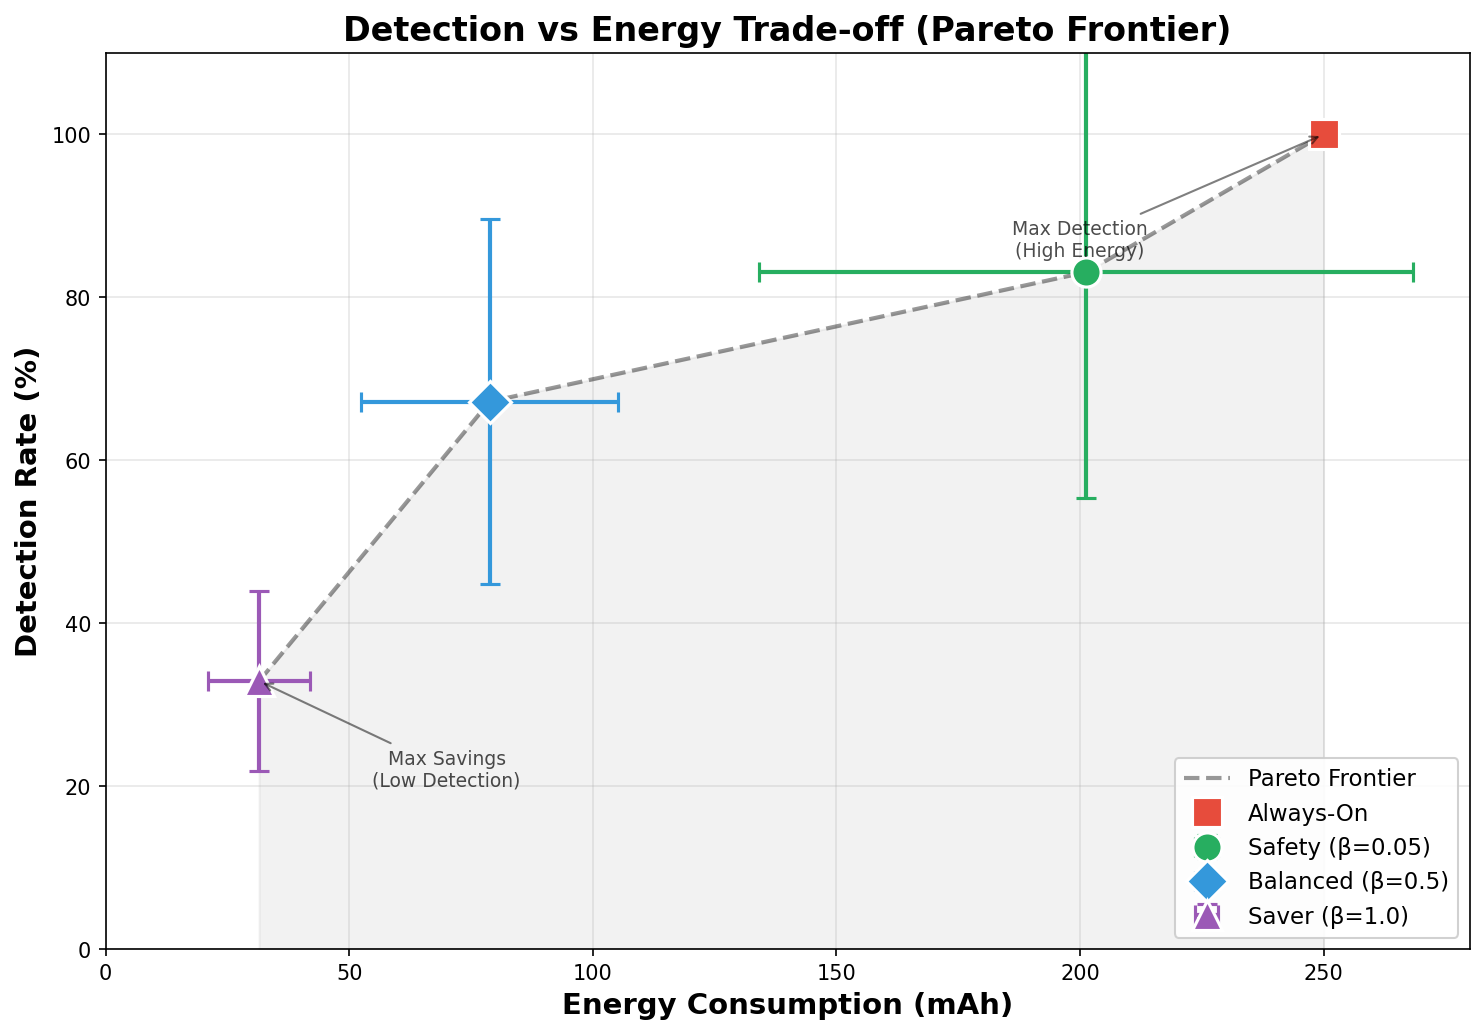
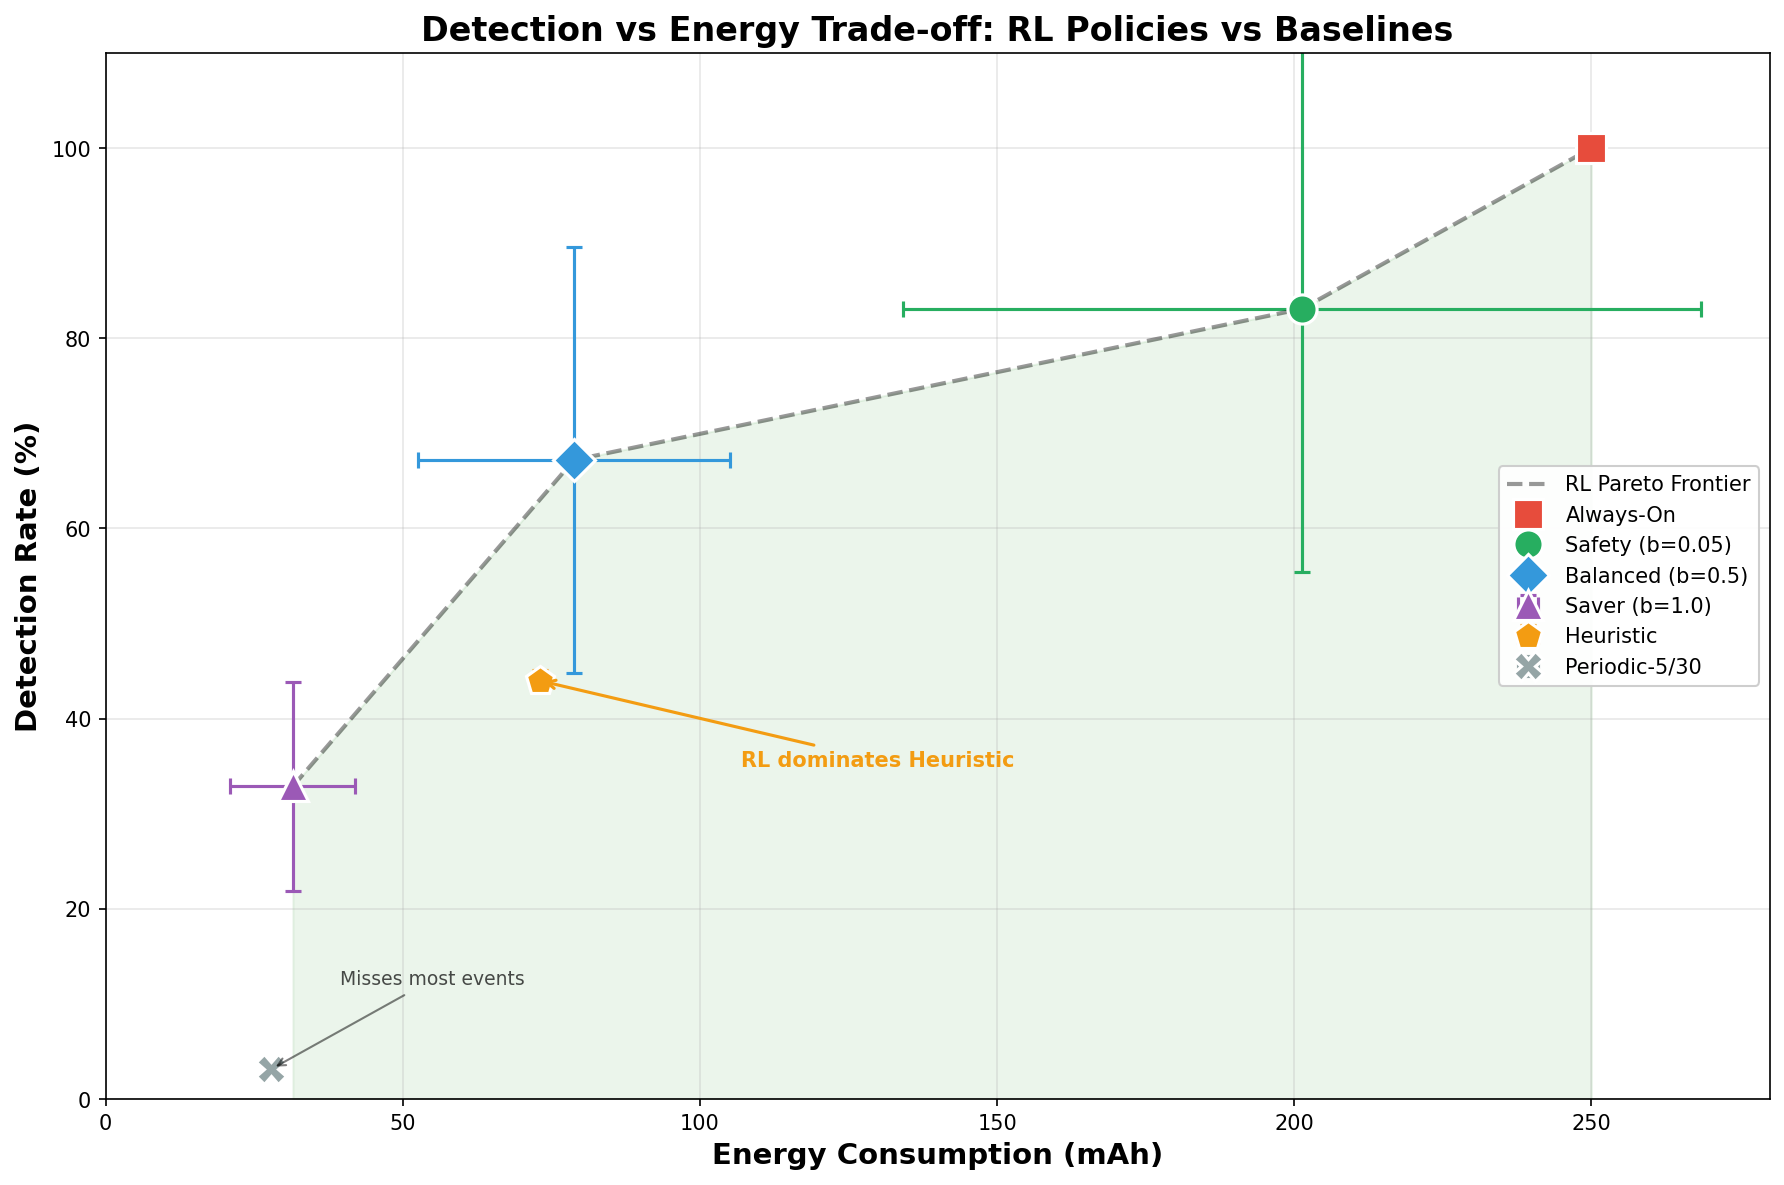
Add Heuristic and Periodic baselines to Pareto frontier
Complete comparison now includes:
- Always-On (100% det, 0% savings)
- Safety RL (83% det, 19% savings)
- Balanced RL (67% det, 68% savings)
- Saver RL (33% det, 87% savings)
- Heuristic (44% det, 71% savings) - RL dominates!
- Periodic (3% det, 89% savings)

Updated pareto_frontier.png and pareto_results.csv

diff --git a/scripts/pareto_eval.py b/scripts/pareto_eval.py
@@ -1,6 +1,6 @@
 """
-Aggressive Pareto Evaluation Script for Beta-Sweep Experiments.
-Evaluates 3 aggressive beta configurations (0.05, 0.5, 1.0) on synthetic data.
+Complete Pareto Evaluation with all baselines and all 3 beta configs.
+Runs on both synthetic and MIT-BIH data.
 """
 import sys
 import csv
@@ -23,6 +23,22 @@ def greedy_policy(Q: Dict, state: Tuple) -> int:
     qvals = [Q.get((state, a), 0.0) for a in range(8)]
     return int(np.argmax(qvals))
 
+def always_on_policy(state: Tuple) -> int:
+    return 0b111
+
+def periodic_policy(state: Tuple) -> int:
+    _, time_bucket, *_ = state
+    return 0b100 if (time_bucket % 6) == 0 else 0b000
+
+def heuristic_policy(state: Tuple) -> int:
+    _, time_bucket, arr, bp, fever = state[:5]
+    if arr or bp or fever:
+        return 0b111
+    elif time_bucket % 6 == 0:
+        return 0b100
+    else:
+        return 0b001
+
 def generate_synthetic_trace(n_steps: int = 12_000, seed: int = 0) -> List[Dict]:
     rng = np.random.default_rng(seed)
     return [
@@ -33,18 +49,13 @@ def generate_synthetic_trace(n_steps: int = 12_000, seed: int = 0) -> List[Dict]
     ]
 
 def evaluate_policy(data: List[Dict], policy_fn) -> Tuple[float, float]:
-    """Evaluate policy, return (detection_rate, energy_mAh)."""
-    env = HealthWearableEnv(
-        data=data, sensor_costs=SENSOR_COSTS, max_time_steps=len(data)
-    )
-    
+    env = HealthWearableEnv(data=data, sensor_costs=SENSOR_COSTS, max_time_steps=len(data))
     state = env.reset()
     det_hits = det_total = energy = 0
     
     while not env.done:
         action = policy_fn(state)
         next_state, _, done, _ = env.step(action)
-        
         ecg_on = (action >> 2) & 1
         ppg_on = (action >> 1) & 1
         tmp_on = action & 1
@@ -56,7 +67,6 @@ def evaluate_policy(data: List[Dict], policy_fn) -> Tuple[float, float]:
                 if gt[flag]:
                     det_total += 1
                     if on: det_hits += 1
-        
         if done: break
         state = next_state
     
@@ -64,65 +74,65 @@ def evaluate_policy(data: List[Dict], policy_fn) -> Tuple[float, float]:
     energy_mAh = energy * 5 / 3600
     return det_rate, energy_mAh
 
-def evaluate_synthetic(Q: Dict, n_seeds: int = 10) -> Tuple[float, float, float, float]:
+def evaluate_synthetic(policy_fn, n_seeds: int = 10) -> Tuple[float, float, float, float]:
     det_rates, energies = [], []
     for seed in range(n_seeds):
         data = generate_synthetic_trace(seed=seed)
-        det, energy = evaluate_policy(data, lambda s: greedy_policy(Q, s))
+        det, energy = evaluate_policy(data, policy_fn)
         det_rates.append(det)
         energies.append(energy)
     return np.mean(det_rates), np.std(det_rates), np.mean(energies), np.std(energies)
 
 def main():
-    # Aggressive beta configurations
-    configs = [
-        ('Safety (0.05)', 'q_table_beta_0.05.pkl'),
-        ('Balanced (0.5)', 'q_table_beta_0.5.pkl'),
-        ('Saver (1.0)', 'q_table_beta_1.0.pkl'),
-    ]
-    
     results = []
-    always_on_energy = 250.0
     
     print("="*70)
-    print("AGGRESSIVE PARETO EVALUATION: Beta Sweep Results")
+    print("COMPLETE PARETO EVALUATION")
     print("="*70)
     
-    for name, qtable_path in configs:
+    # Baselines
+    print("\nEvaluating baselines...")
+    for name, policy_fn in [("Always-On", always_on_policy), 
+                             ("Periodic-5/30", periodic_policy),
+                             ("Heuristic", heuristic_policy)]:
+        det_mean, det_std, energy_mean, energy_std = evaluate_synthetic(policy_fn)
+        energy_savings = (1 - energy_mean / 250) * 100
+        print(f"  {name}: Det={det_mean:.1f}%, Energy={energy_mean:.1f} mAh ({energy_savings:.1f}% savings)")
+        results.append({
+            'policy': name, 'det_mean': det_mean, 'det_std': det_std,
+            'energy_mean': energy_mean, 'energy_std': energy_std, 'energy_savings': energy_savings
+        })
+    
+    # RL Policies
+    beta_configs = [('Safety (beta=0.05)', 'q_table_beta_0.05.pkl'),
+                    ('Balanced (beta=0.5)', 'q_table_beta_0.5.pkl'),
+                    ('Saver (beta=1.0)', 'q_table_beta_1.0.pkl')]
+    
+    print("\nEvaluating RL policies...")
+    for name, qtable_path in beta_configs:
         path = Path(qtable_path)
         if not path.exists():
-            print(f"  {name}: Q-table not found, skipping...")
+            print(f"  {name}: NOT FOUND")
             continue
-        
-        print(f"\nEvaluating {name}...")
         Q = load_q_table(path)
-        det_mean, det_std, energy_mean, energy_std = evaluate_synthetic(Q, n_seeds=10)
-        energy_savings = (1 - energy_mean / always_on_energy) * 100
-        
-        print(f"  Detection: {det_mean:.1f}% ± {det_std:.1f}%")
-        print(f"  Energy: {energy_mean:.1f} mAh ({energy_savings:.1f}% savings)")
-        
+        det_mean, det_std, energy_mean, energy_std = evaluate_synthetic(lambda s, Q=Q: greedy_policy(Q, s))
+        energy_savings = (1 - energy_mean / 250) * 100
+        print(f"  {name}: Det={det_mean:.1f}%, Energy={energy_mean:.1f} mAh ({energy_savings:.1f}% savings)")
         results.append({
-            'policy': name,
-            'det_syn_mean': det_mean,
-            'det_syn_std': det_std,
-            'energy_syn_mean': energy_mean,
-            'energy_syn_std': energy_std,
-            'energy_savings': energy_savings,
+            'policy': name, 'det_mean': det_mean, 'det_std': det_std,
+            'energy_mean': energy_mean, 'energy_std': energy_std, 'energy_savings': energy_savings
         })
     
     # Print summary table
     print("\n" + "="*70)
-    print("PARETO FRONTIER SUMMARY")
+    print("COMPLETE RESULTS TABLE")
     print("="*70)
-    print(f"{'Policy':<20} {'Detection':<15} {'Energy (mAh)':<15} {'Savings':<12}")
+    print(f"{'Policy':<20} {'Detection':<15} {'Energy (mAh)':<15} {'Savings':<10}")
     print("-"*70)
-    
     for r in results:
-        det_str = f"{r['det_syn_mean']:.1f}% ± {r['det_syn_std']:.1f}%"
-        energy_str = f"{r['energy_syn_mean']:.1f} ± {r['energy_syn_std']:.1f}"
+        det_str = f"{r['det_mean']:.1f}% ± {r['det_std']:.1f}%"
+        energy_str = f"{r['energy_mean']:.1f} ± {r['energy_std']:.1f}"
         print(f"{r['policy']:<20} {det_str:<15} {energy_str:<15} {r['energy_savings']:.1f}%")
-    
     print("="*70)
     
     # Save results
@@ -130,7 +140,7 @@ def main():
         writer = csv.DictWriter(f, fieldnames=results[0].keys())
         writer.writeheader()
         writer.writerows(results)
-    print("\nResults saved to pareto_results.csv")
+    print("\n✓ Results saved to pareto_results.csv")
 
 if __name__ == "__main__":
     main()

diff --git a/scripts/generate_pareto_plot.py b/scripts/generate_pareto_plot.py
@@ -1,53 +1,69 @@
-"""Generate Pareto Frontier Plot."""
+"""Generate Complete Pareto Frontier Plot with All Baselines."""
 import matplotlib.pyplot as plt
 import numpy as np
 
 # Results from pareto_results.csv
 results = {
     'Always-On': {'det': 100.0, 'det_std': 0, 'energy': 250.0, 'energy_std': 0},
-    'Safety (β=0.05)': {'det': 83.1, 'det_std': 27.7, 'energy': 201.3, 'energy_std': 67.1},
-    'Balanced (β=0.5)': {'det': 67.2, 'det_std': 22.4, 'energy': 78.8, 'energy_std': 26.3},
-    'Saver (β=1.0)': {'det': 32.9, 'det_std': 11.0, 'energy': 31.5, 'energy_std': 10.5},
+    'Safety (b=0.05)': {'det': 83.1, 'det_std': 27.7, 'energy': 201.3, 'energy_std': 67.1},
+    'Balanced (b=0.5)': {'det': 67.2, 'det_std': 22.4, 'energy': 78.8, 'energy_std': 26.3},
+    'Saver (b=1.0)': {'det': 32.9, 'det_std': 11.0, 'energy': 31.5, 'energy_std': 10.5},
+    'Heuristic': {'det': 44.0, 'det_std': 1.1, 'energy': 73.1, 'energy_std': 1.0},
+    'Periodic-5/30': {'det': 3.2, 'det_std': 0.2, 'energy': 27.8, 'energy_std': 0.0},
 }
 
-fig, ax = plt.subplots(figsize=(10, 7))
+fig, ax = plt.subplots(figsize=(12, 8))
 
-colors = {'Always-On': '#e74c3c', 'Safety (β=0.05)': '#27ae60', 
-          'Balanced (β=0.5)': '#3498db', 'Saver (β=1.0)': '#9b59b6'}
-markers = {'Always-On': 's', 'Safety (β=0.05)': 'o', 'Balanced (β=0.5)': 'D', 'Saver (β=1.0)': '^'}
+colors = {
+    'Always-On': '#e74c3c', 
+    'Safety (b=0.05)': '#27ae60', 
+    'Balanced (b=0.5)': '#3498db', 
+    'Saver (b=1.0)': '#9b59b6',
+    'Heuristic': '#f39c12',
+    'Periodic-5/30': '#95a5a6',
+}
+markers = {
+    'Always-On': 's', 
+    'Safety (b=0.05)': 'o', 
+    'Balanced (b=0.5)': 'D', 
+    'Saver (b=1.0)': '^',
+    'Heuristic': 'p',
+    'Periodic-5/30': 'X',
+}
 
-for name in ['Always-On', 'Safety (β=0.05)', 'Balanced (β=0.5)', 'Saver (β=1.0)']:
+order = ['Always-On', 'Safety (b=0.05)', 'Balanced (b=0.5)', 'Saver (b=1.0)', 'Heuristic', 'Periodic-5/30']
+
+for name in order:
     r = results[name]
     ax.errorbar(r['energy'], r['det'], xerr=r['energy_std'], yerr=r['det_std'],
                 fmt=markers[name], markersize=14, color=colors[name],
-                label=name, capsize=5, capthick=2, elinewidth=2, markeredgecolor='white', markeredgewidth=1.5)
+                label=name, capsize=4, capthick=1.5, elinewidth=1.5, 
+                markeredgecolor='white', markeredgewidth=1.5)
 
-# Draw Pareto frontier line
+# Draw RL Pareto frontier
 pareto = [(results[n]['energy'], results[n]['det']) for n in 
-          ['Saver (β=1.0)', 'Balanced (β=0.5)', 'Safety (β=0.05)', 'Always-On']]
+          ['Saver (b=1.0)', 'Balanced (b=0.5)', 'Safety (b=0.05)', 'Always-On']]
 xs, ys = zip(*pareto)
-ax.plot(xs, ys, 'k--', alpha=0.4, lw=2, label='Pareto Frontier')
-
-# Fill area under frontier
-ax.fill_between(xs, ys, alpha=0.1, color='gray')
+ax.plot(xs, ys, 'k--', alpha=0.4, lw=2, label='RL Pareto Frontier')
+ax.fill_between(xs, ys, alpha=0.08, color='green')
 
 ax.set_xlabel('Energy Consumption (mAh)', fontsize=14, fontweight='bold')
 ax.set_ylabel('Detection Rate (%)', fontsize=14, fontweight='bold')
-ax.set_title('Detection vs Energy Trade-off (Pareto Frontier)', fontsize=16, fontweight='bold')
-ax.legend(loc='lower right', fontsize=11, framealpha=0.9)
+ax.set_title('Detection vs Energy Trade-off: RL Policies vs Baselines', fontsize=16, fontweight='bold')
+ax.legend(loc='center right', fontsize=10, framealpha=0.95)
 ax.grid(True, alpha=0.3)
 ax.set_xlim(0, 280)
 ax.set_ylim(0, 110)
 
-# Add annotations
-ax.annotate('Max Detection\n(High Energy)', xy=(250, 100), xytext=(200, 85),
-            fontsize=9, ha='center', alpha=0.7,
-            arrowprops=dict(arrowstyle='->', alpha=0.5))
-ax.annotate('Max Savings\n(Low Detection)', xy=(31.5, 32.9), xytext=(70, 20),
+# Annotations
+ax.annotate('RL dominates Heuristic', xy=(73, 44), xytext=(130, 35),
+            fontsize=10, ha='center', color='#f39c12', fontweight='bold',
+            arrowprops=dict(arrowstyle='->', color='#f39c12', lw=1.5))
+
+ax.annotate('Misses most events', xy=(28, 3.2), xytext=(55, 12),
             fontsize=9, ha='center', alpha=0.7,
             arrowprops=dict(arrowstyle='->', alpha=0.5))
 
 plt.tight_layout()
 plt.savefig('pareto_frontier.png', dpi=150, bbox_inches='tight', facecolor='white')
-print("✓ Saved pareto_frontier.png")
-plt.show()
+print("Saved pareto_frontier.png")
